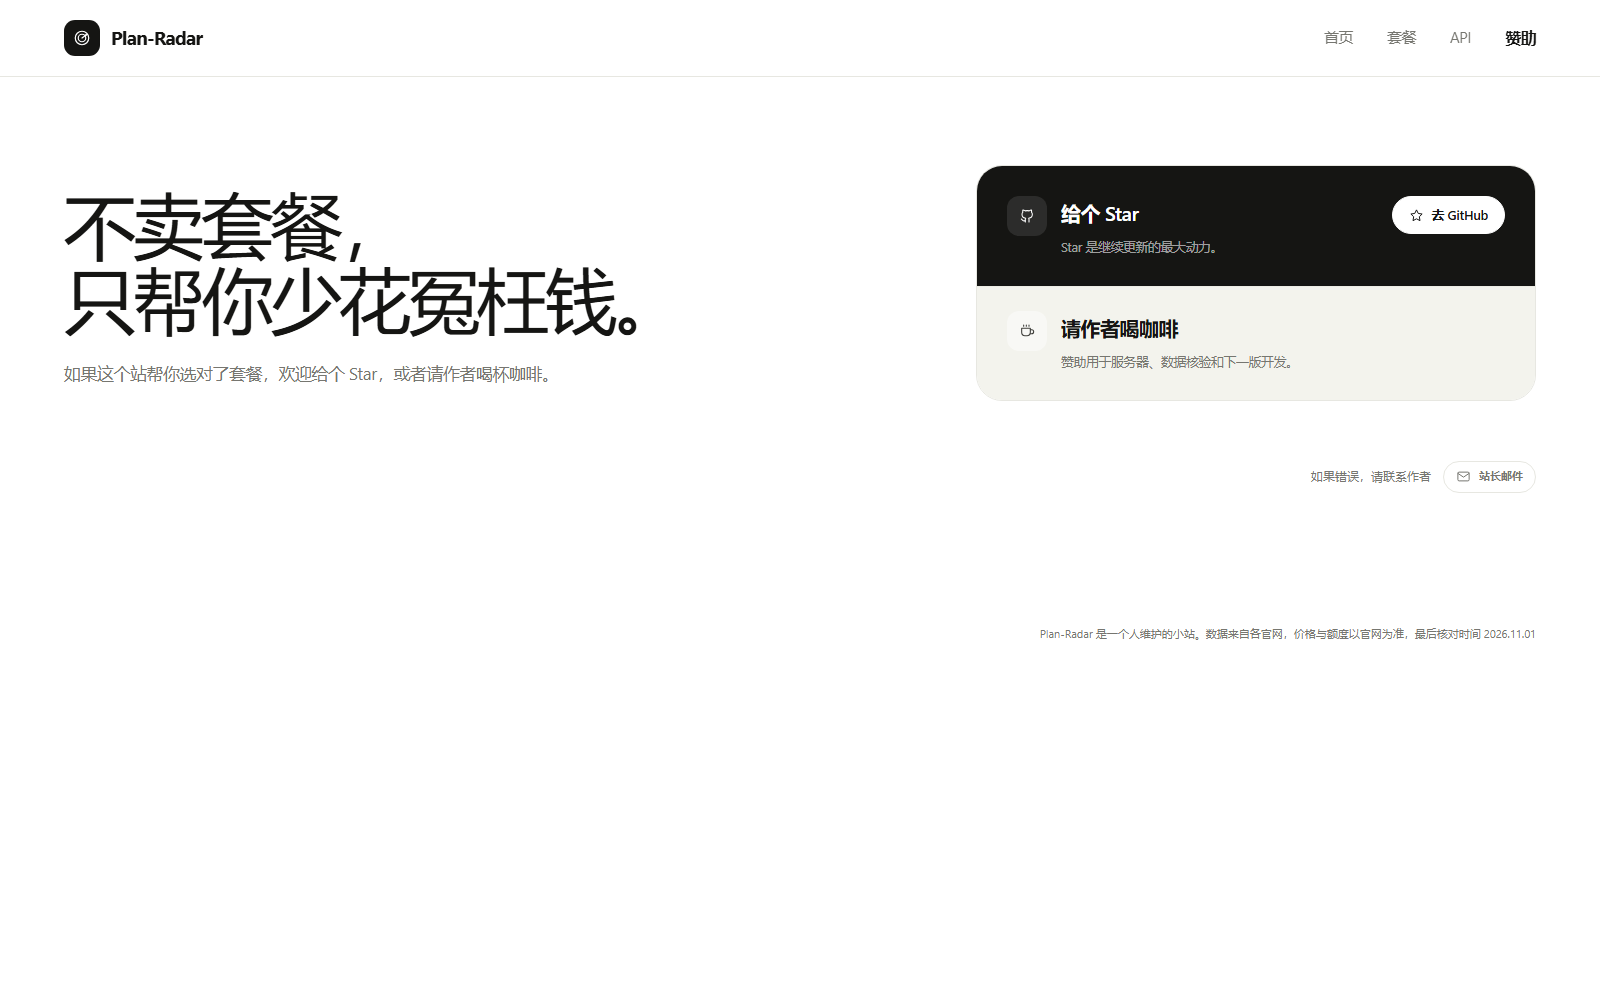
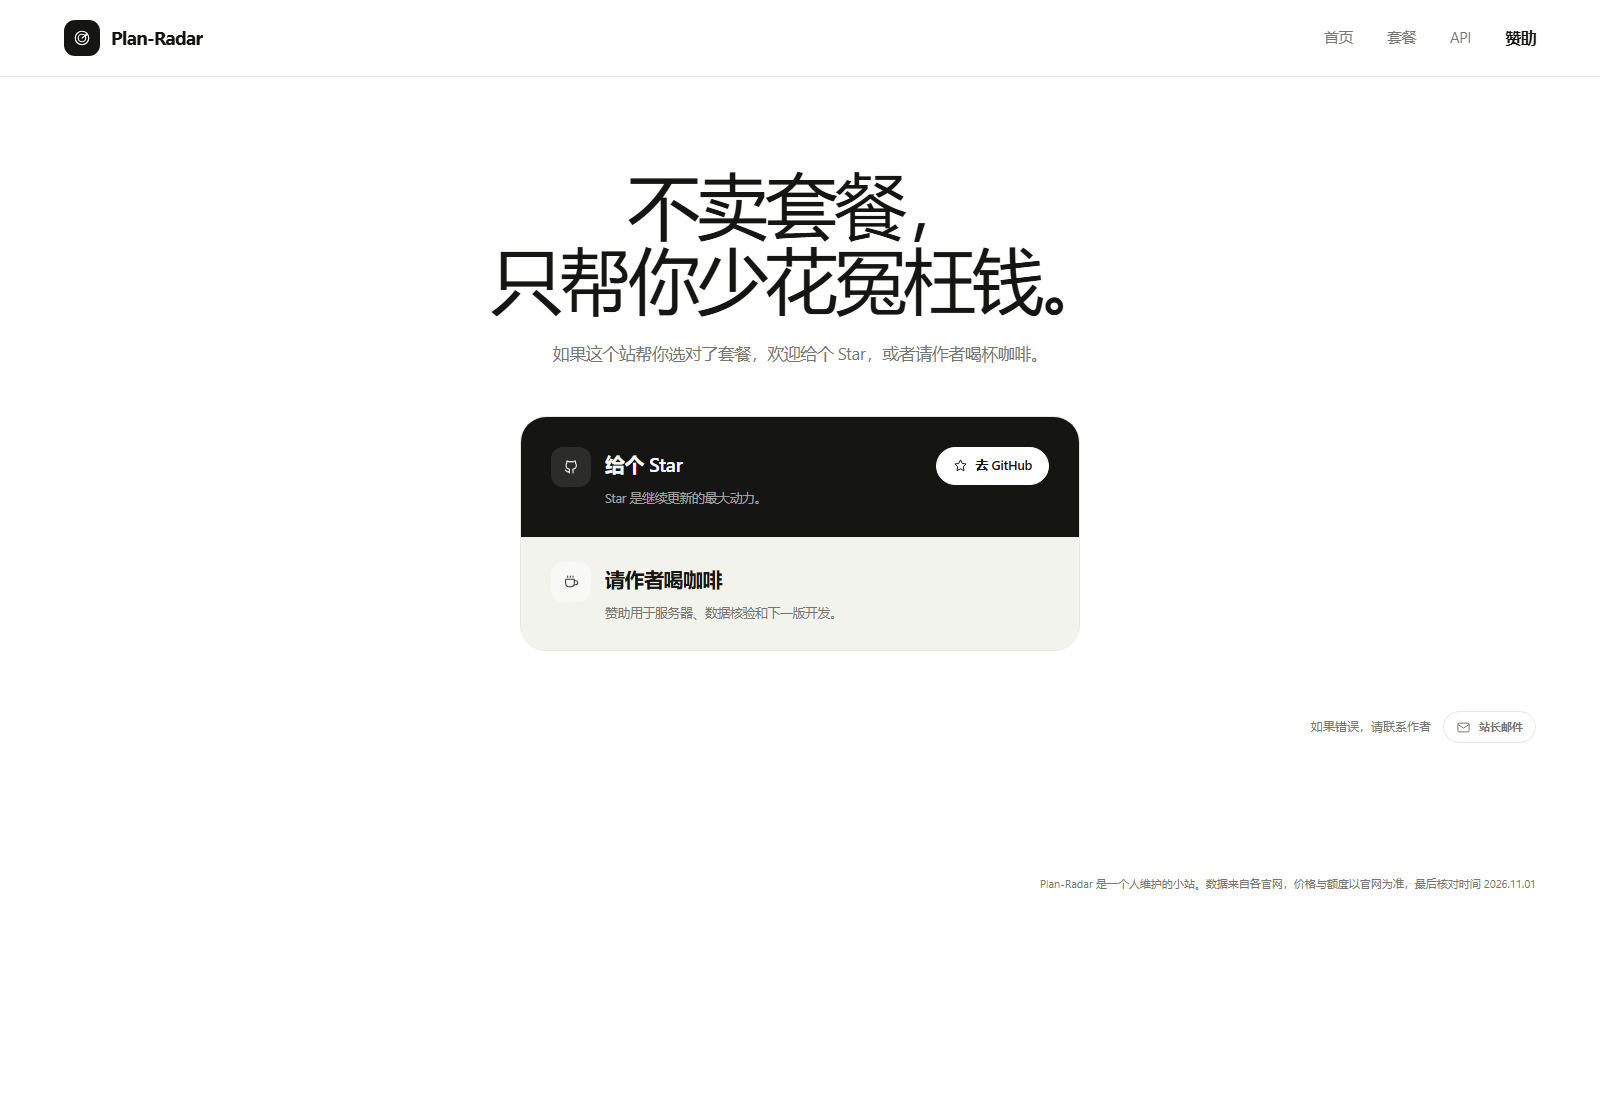
fix: center sponsor layout

diff --git a/app/globals.css b/app/globals.css
@@ -1347,6 +1347,20 @@ a[data-href] { cursor: pointer; }
 .support-hero { padding: 88px 0 36px; }
 .support-hero .display { max-width: 820px; }
 .support-hero .lead { margin-top: 24px; }
+.support-hero-centered-inner {
+  display: flex;
+  flex-direction: column;
+  align-items: center;
+  gap: 48px;
+  text-align: center;
+}
+.support-hero-centered-inner .support-hero-copy { max-width: 900px; }
+.support-hero-centered-inner .display { max-width: 900px; }
+.support-hero-centered-inner .lead { max-width: 640px; margin: 24px auto 0; }
+.support-hero-centered-inner .support-panel {
+  width: min(560px, 100%);
+  text-align: left;
+}
 
 .support-hero-grid {
   display: grid;
@@ -1572,6 +1586,8 @@ a[data-href] { cursor: pointer; }
   .vs { padding: 12px 0; }
   .support-grid { grid-template-columns: 1fr; }
   .support-hero-grid { grid-template-columns: 1fr; gap: 40px; }
+  .support-hero-centered-inner { gap: 32px; }
+  .support-hero-centered-inner .support-panel { width: 100%; }
   .api-grid { grid-template-columns: 1fr; }
   .brief-grid { grid-template-columns: 1fr; }
   .all-plan-grid { grid-template-columns: repeat(2, minmax(0, 1fr)); }

diff --git a/app/sponsor/page.tsx b/app/sponsor/page.tsx
@@ -3,10 +3,10 @@ import { Icon } from "@/components/Icon";
 export default function SponsorPage() {
   return (
     <>
-      <section className="support-hero">
-        <div className="wrap support-hero-grid">
+      <section className="support-hero support-hero-centered">
+        <div className="wrap support-hero-centered-inner">
           <div className="support-hero-copy">
-            <h1 className="display" style={{ marginTop: 20 }}>
+            <h1 className="display">
               不卖套餐，
               <br />
               只帮你少花冤枉钱。
